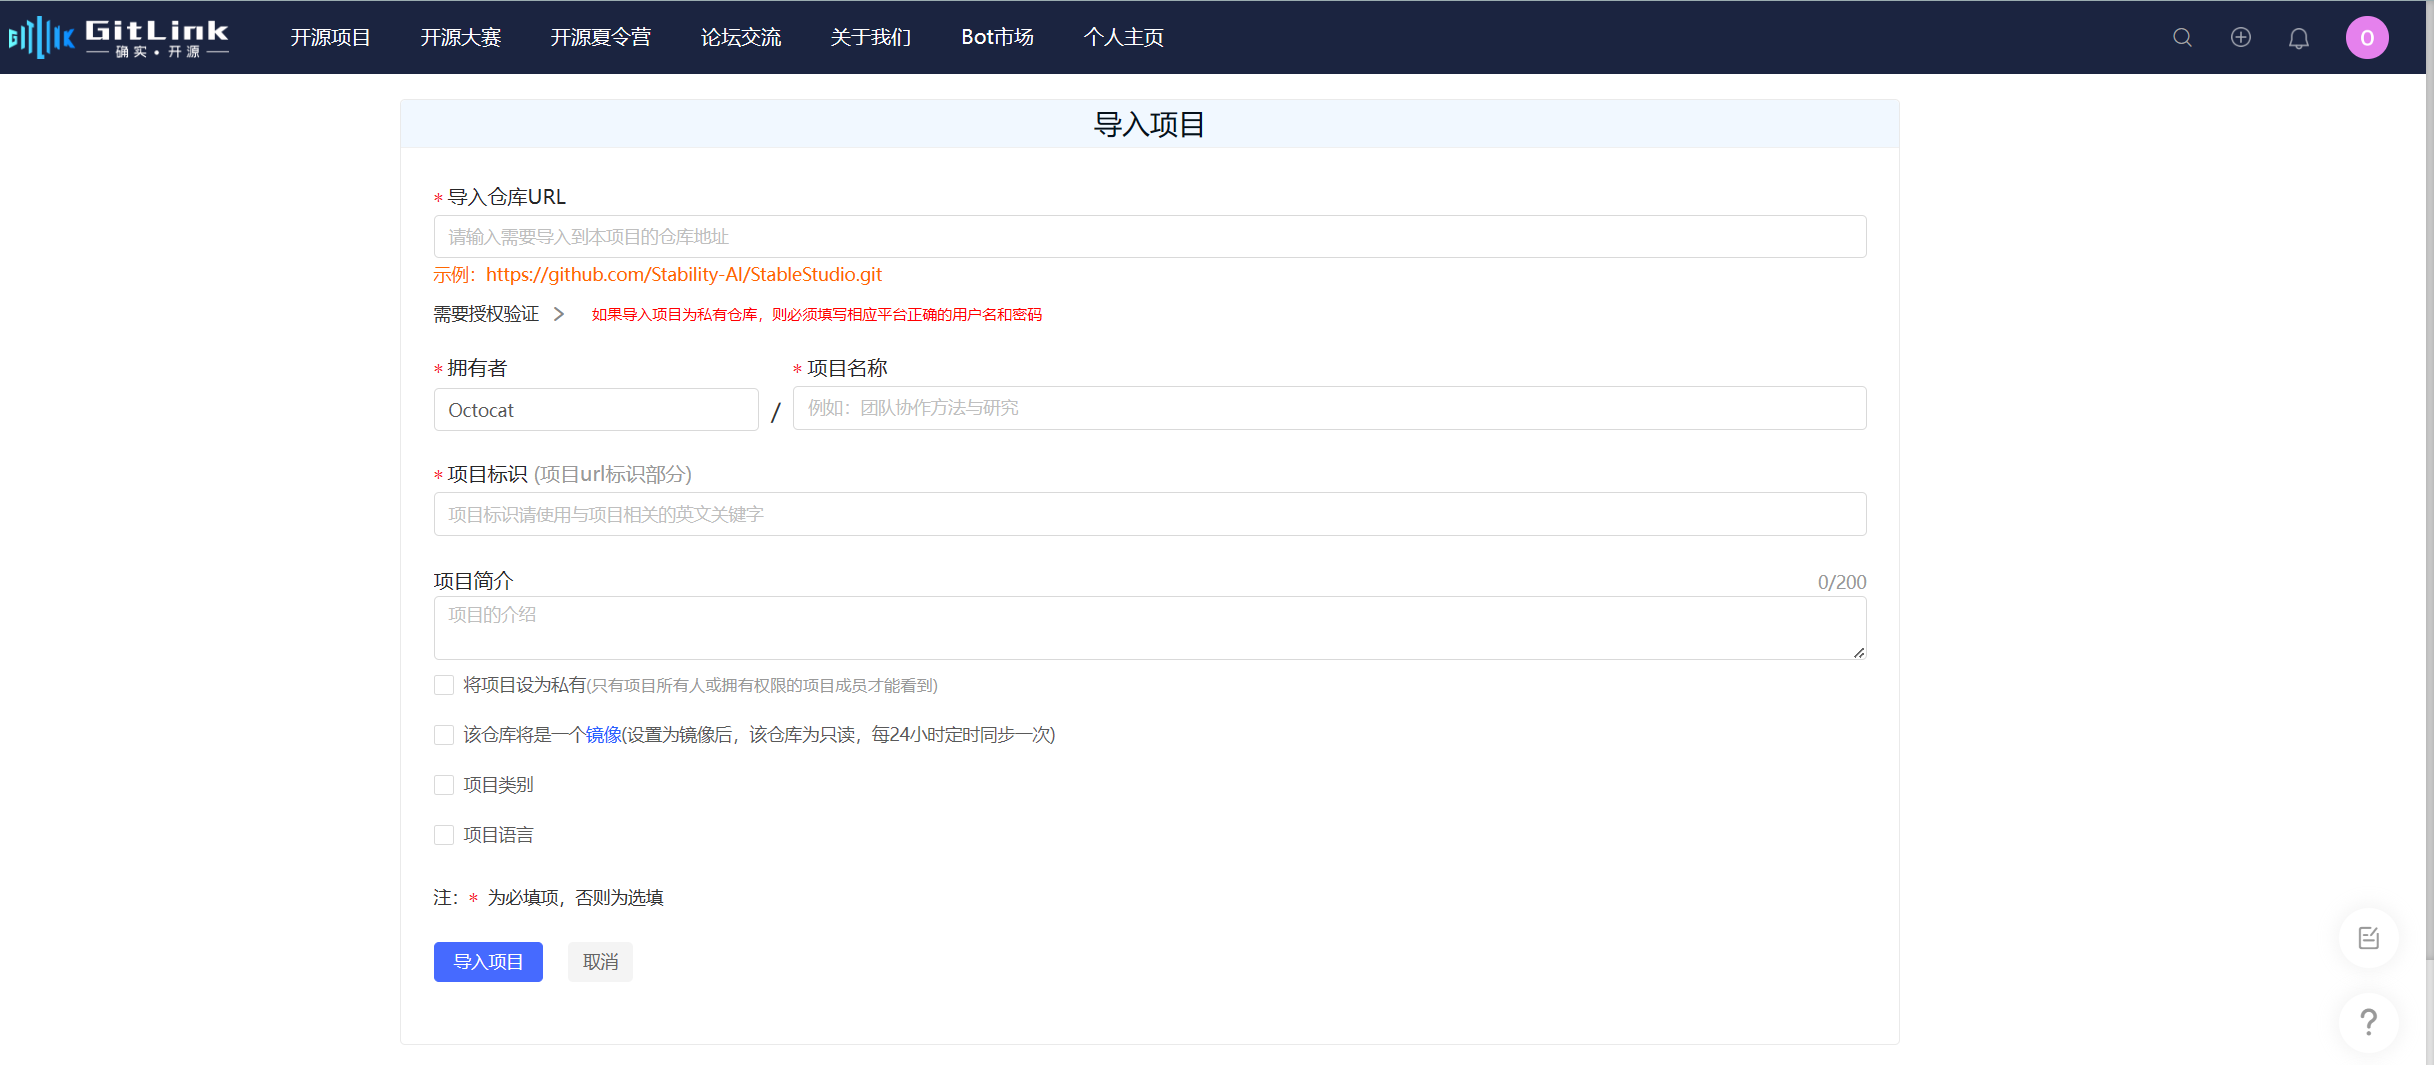
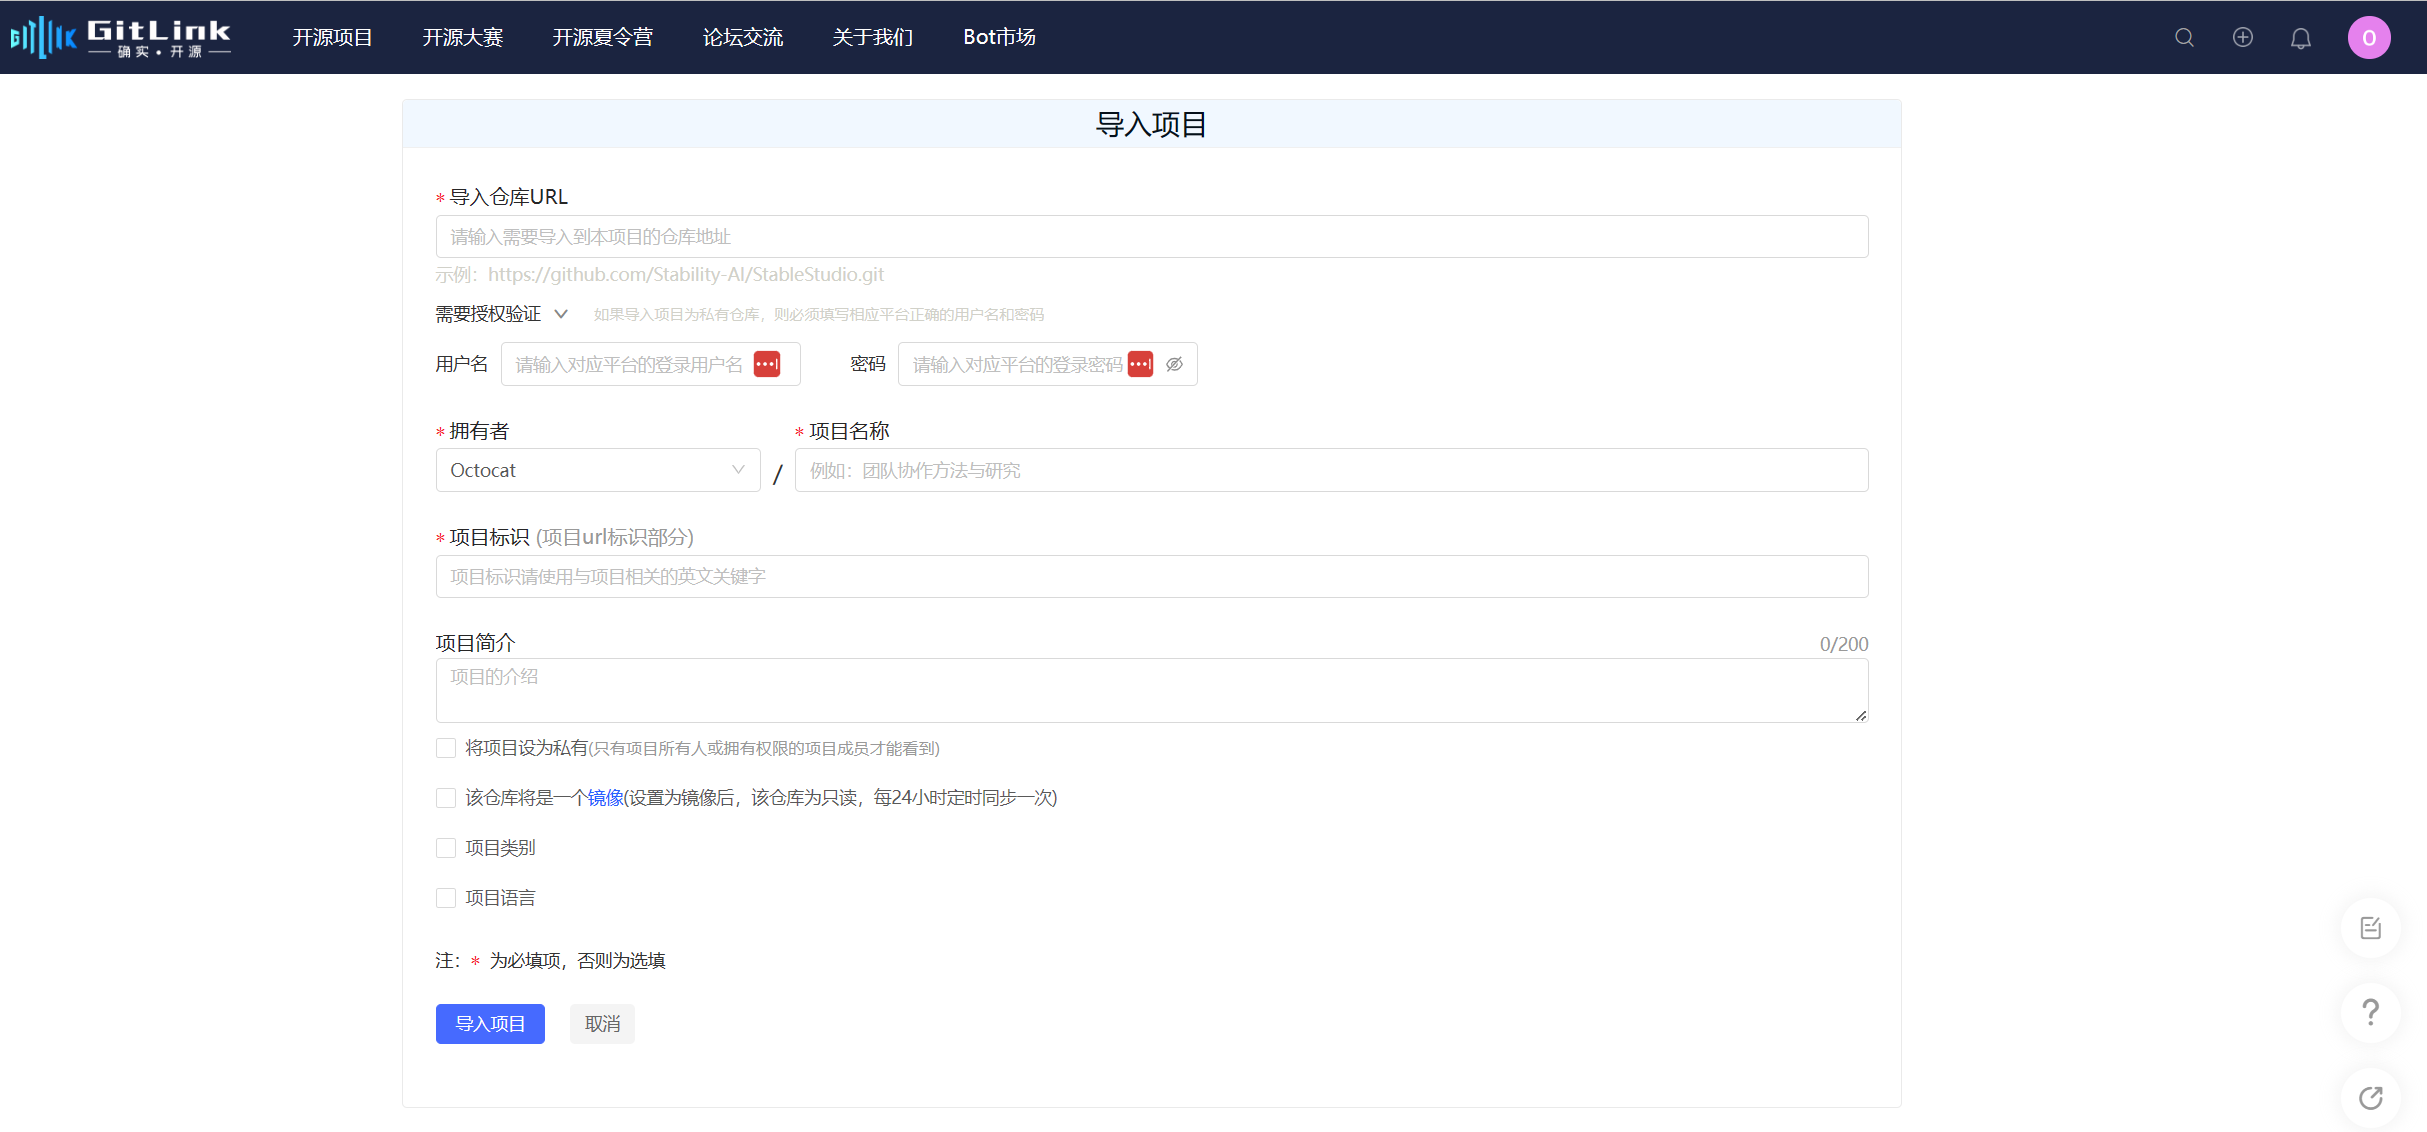
修改“导入GitHub等第三方Git项目”的描述

diff --git a/docs/快速开始/导入GitHub等第三方Git项目.md b/docs/快速开始/导入GitHub等第三方Git项目.md
@@ -13,11 +13,71 @@ sidebar_position: 5
 
 ## 2. 填写信息
 
-填写完需要导入的第三方Git项目地址后和项目信息后，点击导入项目
+填写需要导入的第三方Git项目地址和项目信息，如果导入项目为私有仓库，则需输入目标平台用户token进行授权。
 
 ![](/img/quickstart/import_info.png)
 
-## 3. 导入成功
+## 3. 授权验证
+
+在使用GitLink平台导入其他平台（如GitHub、Gitee）的开源项目时，如果项目为私有，则无法通过正常途径导入，需要输入对应平台有权限的token值进行校验。下面将列举一些典型开源平台的token获取方式。
+
+### GitHub token获取方式
+
+1. 登录GitHub账号
+
+2. 访问用户头像下的settings菜单
+
+   ![img](https://forum.gitlink.org.cn/api/attachments/422328)
+
+3. 访问最下方的Developer settings
+
+   ![img](https://forum.gitlink.org.cn/api/attachments/422329)
+
+4. 在跳转页访问Token（classic），新建一个classic token（若已保存token）
+
+   ![img](https://forum.gitlink.org.cn/api/attachments/422362)
+
+5. 在token配置页面，输入token用途，并确保该token已勾选“repo”选项，否则将导入失败
+
+   ![img](https://forum.gitlink.org.cn/api/attachments/422364)
+
+   点击创建按钮
+
+   ![img](https://forum.gitlink.org.cn/api/attachments/422366)
+
+6. 复制该token
+
+   ![img](https://forum.gitlink.org.cn/api/attachments/422368)
+
+   并将该token输入至GitLink导入项目认证填写框
+
+   ![img](https://forum.gitlink.org.cn/api/attachments/422376)
+
+### Gitee token获取方式
+
+1. 登录Gitee账号
+
+2. 访问用户头像下的设置菜单
+
+   ![img](https://forum.gitlink.org.cn/api/attachments/422333)
+
+3. 访问“安全设置”栏下方“私人令牌”菜单
+
+   ![img](https://forum.gitlink.org.cn/api/attachments/422334)
+
+4. 点击生成新令牌，并在令牌生成页面配置令牌名称，并确保令牌已勾选“project”权限选项，并保存该令牌
+
+   ![img](https://forum.gitlink.org.cn/api/attachments/422371)
+
+   ![img](https://forum.gitlink.org.cn/api/attachments/422370)
+
+5. 在令牌生成成功的弹窗，复制该令牌，并将该token输入至GitLink导入项目认证填写框
+
+   ![img](https://forum.gitlink.org.cn/api/attachments/422374)
+
+   ![img](https://forum.gitlink.org.cn/api/attachments/422375)
+
+## 4. 导入成功
 
 提示正在从第三方Git项目地址迁移
 
